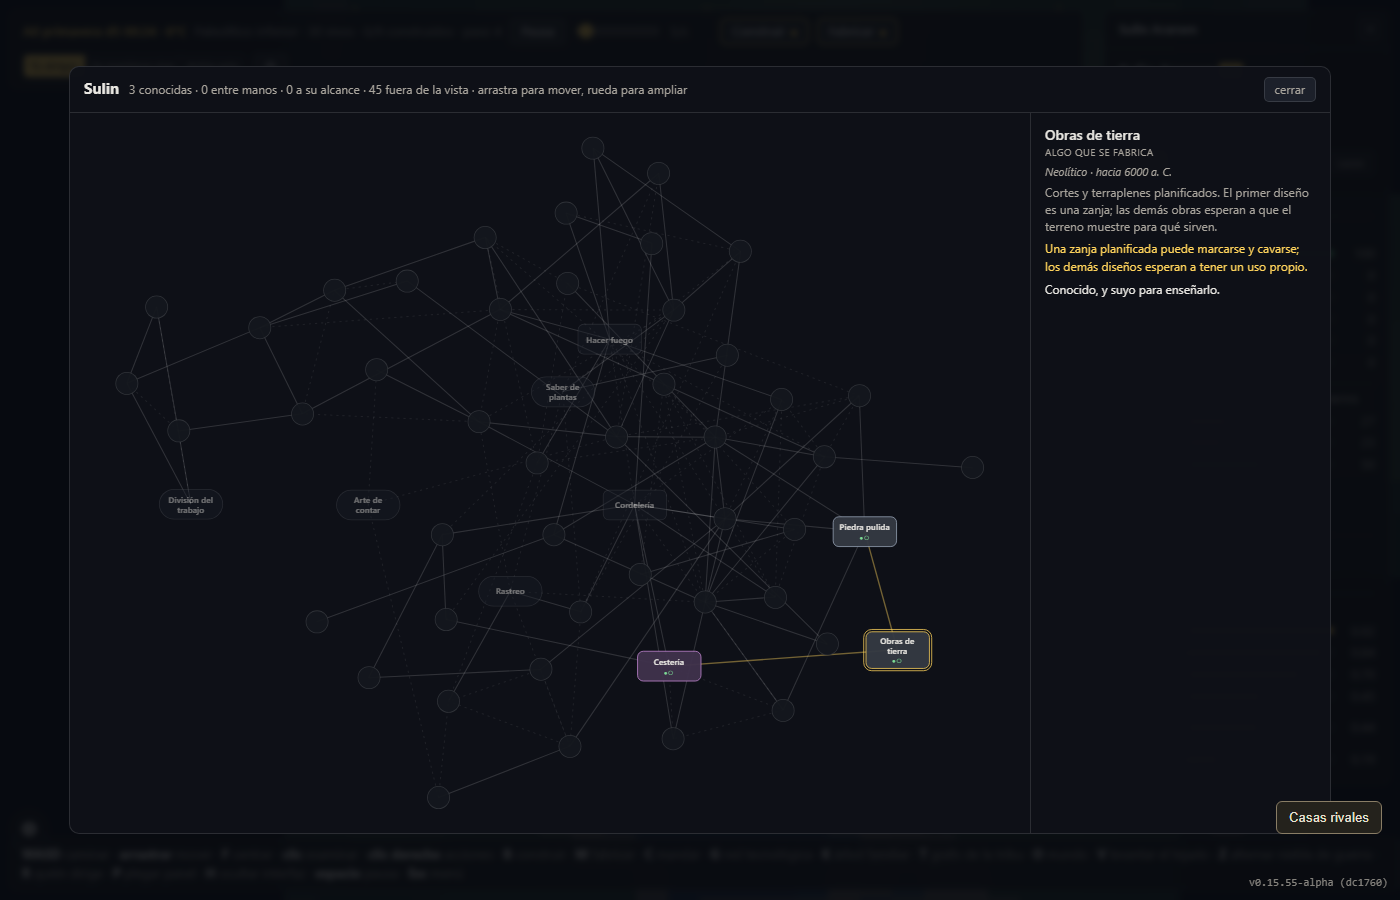
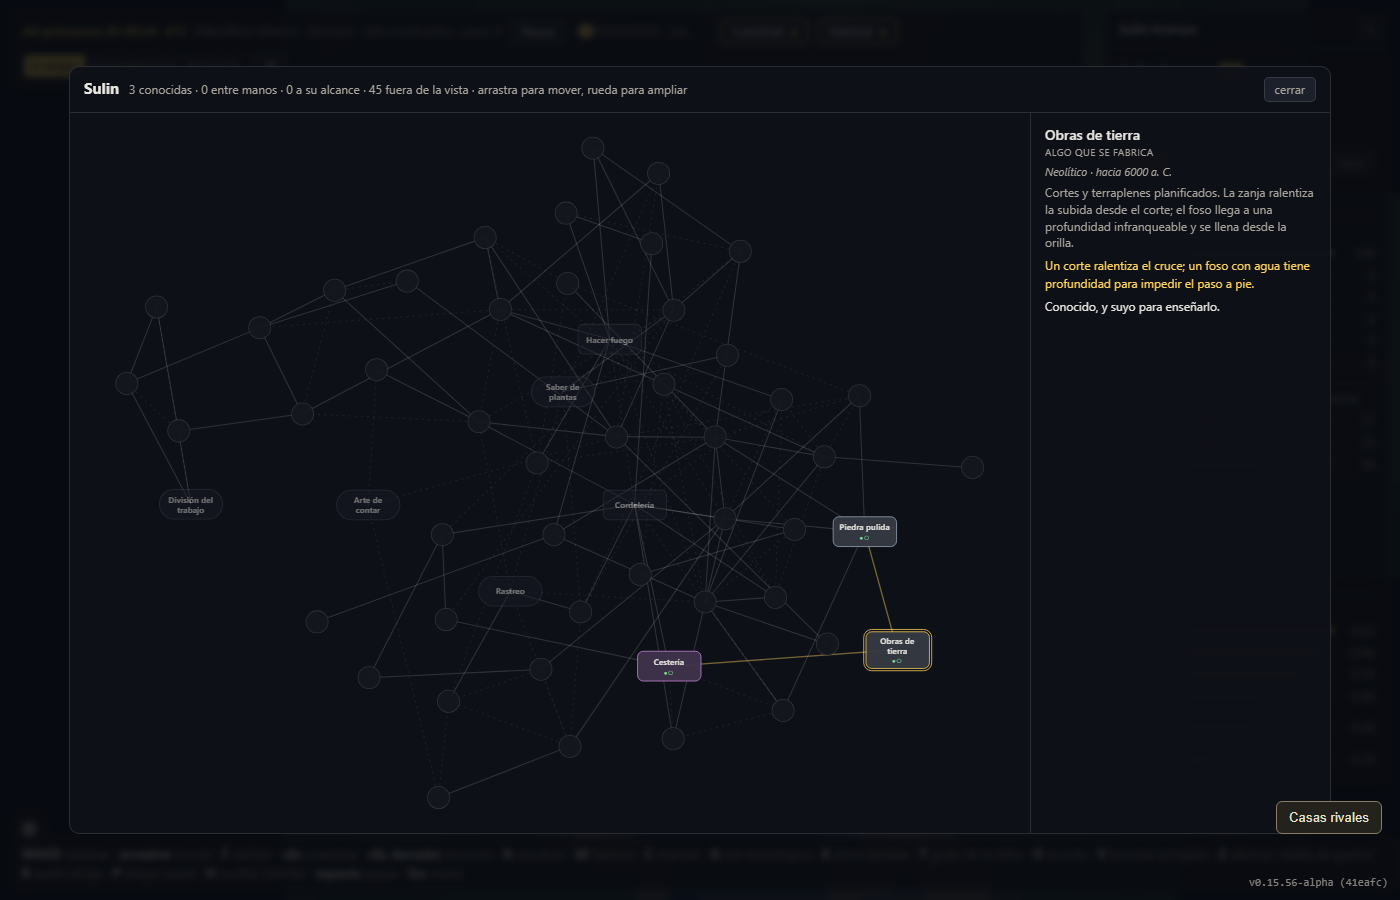
m15: gate water moats by earthworks

Changed region(s): [[0.7371, 0.1867, 0.9521, 0.3422], [0.9521, 0.9644, 0.9829, 0.9956]]

diff --git a/src/sim/__tests__/earthworks-gate.test.ts b/src/sim/__tests__/earthworks-gate.test.ts
@@ -1,7 +1,20 @@
 import { describe, expect, it } from 'vitest';
 import { Simulation } from '../core/Simulation.ts';
 import { BUILDINGS } from '../entities/Building.ts';
+import { EARTH_UNIT } from '../core/Earth.ts';
+import { DEFAULT_CONFIG } from '../core/Config.ts';
+import { BIOME_ID, World } from '../core/World.ts';
+import { RNG } from '../core/RNG.ts';
 import { TECH, TECH_EFFECTS, TECHS } from '../knowledge/Tech.ts';
+
+function flatWorld(): World {
+  const world = new World({ ...DEFAULT_CONFIG.world, width: 64, height: 64 }, new RNG('earthwork-crossing'));
+  world.elevation.fill(0.5);
+  world.offset.fill(0);
+  world.walkable.fill(1);
+  world.biome.fill(BIOME_ID.grass);
+  return world;
+}
 
 function openDitchSpot(sim: Simulation): { x: number; y: number } {
   for (let y = 2; y < sim.world.height - 3; y++) {
@@ -24,6 +37,8 @@ describe('earthworks gate (M15 phase 26e)', () => {
     expect(TECHS).toContain('earthworks');
     expect(TECH.earthworks.requires).toEqual(expect.arrayContaining(['ground_stone', 'basketry']));
     expect(TECH_EFFECTS.earthworks.site).toContain('BUILDINGS.ditch');
+    expect(TECH_EFFECTS.earthworks.site).toContain('BUILDINGS.moat');
+    expect(TECH_EFFECTS.earthworks.site).toContain('World.pitDepth');
     expect(BUILDINGS.ditch?.requiresTech).toBe('earthworks');
     expect(BUILDINGS.ditch_ns?.requiresTech).toBe('earthworks');
   });
@@ -46,5 +61,29 @@ describe('earthworks gate (M15 phase 26e)', () => {
     expect(designs()).not.toContain('ditch_ns');
     expect(sim.lockedDesigns().map(def => def.id)).not.toContain('ditch');
     expect(sim.place('ditch', spot.x, spot.y, 0)).not.toBeNull();
+  });
+
+  it('gates the water moat, while its depth and a shallow ditch use the existing terrain readers', () => {
+    const sim = new Simulation({ seed: 'moat-gate' });
+    sim.knownTech.add('ground_stone');
+    sim.knownTech.add('basketry');
+    expect(BUILDINGS.moat?.requiresTech).toBe('earthworks');
+    expect(sim.availableDesigns().map(def => def.id)).not.toContain('moat');
+    expect(sim.lockedDesigns().map(def => def.id)).toContain('moat');
+    expect(sim.place('moat', 32, 32, 0)).toBeNull();
+    sim.knownTech.add('earthworks');
+    expect(sim.availableDesigns().map(def => def.id)).toContain('moat');
+
+    const world = flatWorld();
+    const x = 32, y = 32;
+    world.dig(x, y, 16 * EARTH_UNIT);
+    expect(world.depthDug(x, y)).toBeGreaterThan(world.pitDepth);
+    expect(world.isWalkable(x, y)).toBe(false);
+
+    const ditch = flatWorld();
+    ditch.dig(x, y, 6 * EARTH_UNIT);
+    expect(ditch.depthDug(x, y)).toBeLessThan(ditch.pitDepth);
+    expect(ditch.isWalkable(x, y)).toBe(true);
+    expect(ditch.stepFactor(x + 0.5, y + 0.5, x - 0.5, y + 0.5)).toBeLessThan(1);
   });
 });

diff --git a/src/i18n/es/tech.ts b/src/i18n/es/tech.ts
@@ -1,11 +1,11 @@
 /** Spanish for tech. Keys are the English templates; see `i18n.ts`. */
 export const ES_TECH: Record<string, string> = {
   'Earthworks': 'Obras de tierra',
-  'Planned cuts and banks of earth. The first design is a ditch; other works wait for the ground to show what they are for.': 'Cortes y terraplenes planificados. El primer diseño es una zanja; las demás obras esperan a que el terreno muestre para qué sirven.',
+  'Planned cuts and banks of earth. A ditch slows the climb out of its cut; a water moat reaches below walking depth and fills from the shore.': 'Cortes y terraplenes planificados. La zanja ralentiza la subida desde el corte; el foso llega a una profundidad infranqueable y se llena desde la orilla.',
   'cut a line through the ground and found the earth itself could be shaped into a boundary': 'abrió una línea en el terreno y vio que la propia tierra podía formar un límite',
   'heaped earth into a bank and saw it change where people could walk': 'amontonó tierra en un terraplén y vio cómo cambiaba por dónde podía pasar la gente',
-  'A planned ditch can be marked and dug; later earth designs wait for their own readers.': 'Una zanja planificada puede marcarse y cavarse; los demás diseños esperan a tener un uso propio.',
-  'BUILDINGS.ditch.requiresTech; Simulation.availableDesigns and Simulation.place gate the ditch design': 'BUILDINGS.ditch.requiresTech; Simulation.availableDesigns y Simulation.place control el diseño de zanja',
+  'A cut slows the crossing; a water moat is deep enough to stop walking through.': 'Un corte ralentiza el cruce; un foso con agua tiene profundidad para impedir el paso a pie.',
+  'BUILDINGS.ditch and BUILDINGS.moat require earthworks; World.stepFactor reads excavated height, World.pitDepth and water fills read moat depth': 'BUILDINGS.ditch y BUILDINGS.moat requieren earthworks; World.stepFactor lee la altura excavada, World.pitDepth y el llenado de agua leen la profundidad del foso',
   'Irrigation': 'Riego',
   'Terracing': 'Abancalado',
   'about 6000 BC': 'hacia 6000 a. C.',

diff --git a/src/sim/entities/Building.ts b/src/sim/entities/Building.ts
@@ -777,8 +777,8 @@ export const BUILDINGS: Record<string, BuildingDef> = {
 // `Object.values(BUILDINGS)`, which the planner and the menu iterate. No
 // materials and no technology: a hole in the ground is older than any entry in
 // the tree, and what limits it is the digger's tool (`digTool`) and the hours.
-// Pits stay open as ordinary holes; designed ditches open with earthworks,
-// while channels and terraces wait on their field readers (M15 phase 26e).
+// Pits stay open as ordinary holes; planned ditches and water moats open with
+// earthworks, while channels and terraces wait on their field readers.
 // Each linear design has a turned copy (`_ns`) that is the same plan running
 // north-south: the build menu lists one design and R turns it.
 function earthworkDef(
@@ -809,7 +809,8 @@ const EARTHWORK_DEFS: BuildingDef[] = [
     'earthworks')),
   earthworkDef('moat', 'Moat', '\u{1F30A}', 6, 6,
     { layout: 'ring', kind: 'dig', depth: 16, water: 'ring' },
-    'A ring of ground dug too deep to cross, starting at the water. Where the water follows, it fills.'),
+    'A ring of ground dug too deep to cross, starting at the water. Where the water follows, it fills.',
+    'earthworks'),
   earthworkDef('mound', 'Mound', '\u{26F0}', 3, 3,
     { layout: 'cone', kind: 'pile', depth: 6 },
     'Earth heaped into a rise. Whoever stands on it sees further, and whoever climbs it goes slower.'),

diff --git a/src/sim/knowledge/Tech.ts b/src/sim/knowledge/Tech.ts
@@ -1483,8 +1483,8 @@ export const TECH: Record<Tech, TechDef> = {
         weight: 0.6, story: 'heaped earth into a bank and saw it change where people could walk' },
     ],
     description:
-      'Planned cuts and banks of earth. The first design is a ditch; other ' +
-      'works wait for the ground to show what they are for.',
+      'Planned cuts and banks of earth. A ditch slows the climb out of its ' +
+      'cut; a water moat reaches below walking depth and fills from the shore.',
   },
   terracing: {
     id: 'terracing', label: 'Terracing', domain: 'plants', web: 'field',
@@ -2943,8 +2943,8 @@ export const TECH_EFFECTS: Record<Tech, TechEffect> = {
     site: 'BUILDINGS.canal requires irrigation; Simulation.growCrops reads a completed canal carrying freshwater',
   },
   earthworks: {
-    summary: 'A planned ditch can be marked and dug; later earth designs wait for their own readers.',
-    site: 'BUILDINGS.ditch.requiresTech; Simulation.availableDesigns and Simulation.place gate the ditch design',
+    summary: 'A cut slows the crossing; a water moat is deep enough to stop walking through.',
+    site: 'BUILDINGS.ditch and BUILDINGS.moat require earthworks; World.stepFactor reads excavated height, World.pitDepth and water fills read moat depth',
   },
   terracing: {
     summary: 'Level a hillside field with a cut and fill that carries topsoil downhill.',

diff --git a/e2e/phase26e-irrigation.spec.ts b/e2e/phase26e-irrigation.spec.ts
@@ -57,6 +57,19 @@ test('Earthworks node describes the first ditch design in Spanish', async ({ pag
   await expect(node).toHaveCount(1);
   await node.hover();
   await expect(page.locator('.techweb-title')).toHaveText('Obras de tierra');
-  await expect(page.locator('.techweb-detail')).toContainText('El primer diseño es una zanja');
+  await expect(page.locator('.techweb-detail')).toContainText('el foso llega a una profundidad infranqueable');
   await page.screenshot({ path: shots + '/01-obras-de-tierra-red-principal.png' });
+});
+
+test('the locked moat names its earthworks gate in the Spanish build bar', async ({ page }) => {
+  const shots = 'artifacts/screenshots/m15-phase26e-moat-2026-10-11';
+  mkdirSync(shots, { recursive: true });
+  await page.setViewportSize({ width: 1400, height: 900 });
+  await page.goto('/?seed=m15-phase26e-moat&skipIntro=1&lang=es');
+  await expect(page.locator('.hud-clock')).not.toBeEmpty({ timeout: 30_000 });
+  await page.keyboard.press('b');
+
+  const locked = page.locator('.hud-buildbar-locked').filter({ hasText: 'Foso (requiere Obras de tierra)' });
+  await expect(locked).toBeVisible();
+  await page.screenshot({ path: shots + '/01-foso-bloqueado-por-obras-de-tierra.png' });
 });

diff --git a/e2e/earthworks.spec.ts b/e2e/earthworks.spec.ts
@@ -20,6 +20,8 @@ test('an earthwork is previewed, refused with a reason, turned, placed and dug',
   // Open ground a few tiles from the player, found by the sim's own rule.
   const spot = await page.evaluate(() => {
     const d = (window as any).__dynasty, p = d.sim.player;
+    // This spec measures placement on dry ground; the design is gated in 26e.
+    p.knownTech.add('earthworks'); d.sim.knownTech.add('earthworks');
     for (let r = 4; r < 40; r++) for (let a = 0; a < 32; a++) {
       const x = Math.round(p.x + Math.cos(a * Math.PI / 16) * r), y = Math.round(p.y + Math.sin(a * Math.PI / 16) * r);
       let ok = true;

diff --git a/docs/m15_plan.md b/docs/m15_plan.md
@@ -2498,13 +2498,16 @@ se ve más`.
 pala a 3× con `carpentry`) y los verbos y el relieve visible de 26c. Las recetas,
 el equipo llevado, el sprite al cavar y los motivos de rechazo están probados.
 También está `regions-stay-true` de 26f, aplicado a toda la matriz. La conservación de
-fertilidad y la extracción de barro de 26a también están (2026-10-04). El agua sigue a la zanja (26d) y el check `water-follows-the-trench` también (2026-10-04). Los diseños de 26c (hoyo, zanja, foso, montículo,
-terraplén, canal y bancal; `Building.earth`, progreso por casilla, razones, menú
-con vista previa y rechazo) están hechos (2026-10-04); también el reubicado de lo
-que queda bajo el agua. Faltan la puerta `earthworks`
-y los nodos de sus diseños de 26b, la persuasión de la banda como proponente, el
-26e. El silo que se cava está hecho y medido aparte (2026-10-04; coste −3,7 puntos a 20 semillas, ver `changelog.md`). El escenario `diggers` con `earthworks-are-dug` de 26f
-está hecho (2026-10-04). `pitDepth`, que ya alcanza el diseño del hoyo, está probado en `World`.
+fertilidad y la extracción de barro de 26a también están (2026-10-04). El agua
+sigue a la zanja (26d) y el check `water-follows-the-trench` también
+(2026-10-04). Los diseños de 26c (hoyo, zanja, foso, montículo, terraplén,
+canal y bancal; `Building.earth`, progreso por casilla, razones y vista previa)
+están hechos (2026-10-04); también el reubicado de lo que queda bajo el agua.
+`earthworks` ya abre `ditch` y `moat`; faltan gates/lectores de los demás
+diseños, la persuasión de la banda y las mediciones de 26e. El silo está hecho y
+medido aparte (2026-10-04; coste −3,7 puntos a 20 semillas, ver `changelog.md`).
+El escenario `diggers` con `earthworks-are-dug` de 26f está hecho (2026-10-04).
+`pitDepth`, que leen el hoyo y el foso, está probado en `World`.
 Ver `changelog.md`.
 
 **Objetivo.** El terreno se puede cambiar: hoyos, silos, zanjas, fosos con
@@ -2533,17 +2536,17 @@ sin fabricar un segundo objeto idéntico. El pico se fabrica con dos huesos y
 la pala con una madera; los multiplicadores se leen por `techPower` y se elige
 la mejor potencia efectiva, incluidos prototipos y refinamientos. Tener la
 herramienta sin saber usarla da un motivo propio en el menú, al dar la orden y
-al interrumpirse. La puerta y los nodos de obras esperan a sus lectores: no se
-declaran tecnologías que todavía no puedan hacer nada.
+al interrumpirse. **Avance 2026-10-11:** `earthworks` abre `ditch` y `moat`;
+los demás diseños esperan a tener lectores propios antes de recibir gates.
 
 | herramienta o nodo | edad | requiere | efecto |
 |---|---|---|---|
 | palo de cavar (`digging_stick`) | Paleolítico inferior | — (palos 1) | cavar a 1× |
 | pico de asta (`antler_pick`) | Mesolítico | `bone_working` (hueso 2) | 2× |
 | pala de madera (`spade`) | Neolítico | `carpentry` (madera 1) | 3× |
-| `earthworks` (puerta Tierra, en la red principal) | Neolítico | `ground_stone`, `basketry` | abre `ditch`; otros diseños se conectan al llegar sus lectores |
+| `earthworks` (puerta Tierra, en la red principal) | Neolítico | `ground_stone`, `basketry` | abre `ditch` y `moat`; otros diseños esperan a sus lectores |
 | `ditch` | Neolítico | `earthworks` | diseño excavable de 26c; mueve suelo y modifica el relieve |
-| `moat` | Neolítico | `earthworks` (además, requiere un borde de agua) | diseño de foso de 26c; gate aún pendiente |
+| `moat` | Neolítico | `earthworks` (además, requiere un borde de agua) | diseño de foso de 26c; ring hondo e inundable |
 | `terracing` | Bronce | `irrigation` | bancal de 26e, lector de topsoil; diseño ya implementado |
 | `irrigation` (sub-red Campo) | Neolítico final (Mesopotamia) | `earthworks`, `farming` | abre el canal que riega (26e) |
 
@@ -2579,7 +2582,9 @@ lleva agua a beber junto al campamento: un valor que la banda descubre sola.
 
 - **Zanja:** cruzarla cuesta (la pendiente de 25b), y si es honda no se
   cruza. Las incursiones la rodean o buscan el paso.
-- **Foso:** zanja con agua; no se camina.
+- **Foso:** `moat` excava 16 unidades de tierra por casilla, más que el umbral
+  `pitDepth`; queda intransitable y 26d deja entrar agua donde el ring toca la
+  orilla. La puerta `earthworks` también lo habilita (avance 2026-10-11).
 - **Montón y terraplén:** más altura, y por tanto más vista (25c), y quien sube
   a atacar va más lento (25b). Es la defensa que la fase 38 convierte en
   muralla.
@@ -2591,13 +2596,15 @@ lleva agua a beber junto al campamento: un valor que la banda descubre sola.
   requiere `farming` y `earthworks`, y abre el canal; su factor no está calibrado. `terracing`
   requiere `irrigation` y abre el bancal: el corte y relleno existente lleva la
   capa fértil de la parte alta a la baja. No hay un modelo separado de erosión
-  de ladera. Siguen pendientes los nodos específicos del foso y otras obras,
-  la persuasión de obras y la medición final de 26e.
+  de ladera. Sigue pendiente la persuasión de obras y la medición final de 26e.
 - **Puerta Tierra (avance 2026-10-11):** `earthworks` requiere `ground_stone` y
-  `basketry`; su primer lector es `ditch`, que permanece bloqueado hasta conocer
-  la puerta. La puerta está en la red principal mientras solo tenga un diseño
-  lector. El canal requiere también `earthworks` a través de `irrigation`; el
-  foso, montones y terraplenes siguen pendientes hasta conectar cada lector.
+  `basketry`; abre la zanja y el foso. La zanja de seis unidades queda bajo el
+  umbral de `pitDepth` y sigue caminable; `World.stepFactor` encarece salir del
+  corte mediante la lectura de elevación excavada de 25b. El foso de 16 unidades
+  rebasa `pitDepth` y el llenado de 26d lo conecta al agua de la orilla. La
+  puerta permanece en la red principal hasta que haya dos nodos de Tierra; el
+  canal la exige a través de `irrigation`. Los demás diseños esperan sus
+  propios lectores; el rodeo de incursiones y su coste defensivo siguen pendientes.
 - **Bancal:** un campo en pendiente que conserva la capa fértil al nivelar la
   ladera con corte y relleno; no modela erosión adicional por lluvia.
 

diff --git a/docs/bugs.md b/docs/bugs.md
@@ -518,12 +518,15 @@ arranque vengan ya cavados, o `git revert` del commit del silo.
 - **Foso, canal, bancal y terraplén tienen lectores parciales.** Todos cambian
   el relieve, y lo leen la pendiente (25b), la vista (25c) y el llenado (26d);
   el foso solo se llena donde el terreno es bajo, y una playa natural sube unos
-  4 m por casilla. Pero el coste de cruzar una zanja *honda*, las incursiones que la
-  rodean, el riego del canal (`irrigation`) y la fertilidad del bancal son 26e.
-  Avance 2026-10-11: `earthworks` ahora abre el diseño `ditch`, y `irrigation`
-  también lo requiere. Faltan el coste de cruce defensivo, la reacción de las
-  incursiones, y puertas con lectores propios para foso, terraplén y las demás
-  obras. Los agujeros simples siguen abiertos a todos.
+  4 m por casilla. El movimiento común encarece la subida desde una zanja poco
+  honda (25b); el foso supera `pitDepth` y no se cruza a pie. Sigue pendiente
+  que las incursiones rodeen las obras y su medición táctica, además del riego
+  del canal (`irrigation`) y la fertilidad del bancal.
+  Avance 2026-10-11: `earthworks` abre `ditch` y `moat`; el escalón de salida de
+  la zanja ya usa el coste de pendiente 25b y el foso rebasa `pitDepth`, por lo
+  que no se puede cruzar, y se llena desde la orilla (26d). Faltan el desvío de
+  las incursiones, una medición de coste defensivo y gates para montones,
+  terraplenes y otras obras. Los agujeros simples siguen abiertos a todos.
 - **Una casilla de plan que se hace honda bajo los pies de otro peón.** El que
   cava no está nunca en la casilla que se hará pozo (trabaja desde el borde),
   pero otro compañero de la cuadrilla sí puede estar en ella cuando alguien
@@ -4858,7 +4861,7 @@ Perfil en vez de Equipo: se corrigió el test y su repetición pasa.
 El primer lector de la fase 26e aplica un factor 1,25 al crecimiento diario de
 campos próximos a canales con agua dulce. Es un mecanismo funcional, no una
 medición económica: no se ejecutaron cohortes y no se afirma que mejore la
-supervivencia. Los nodos `irrigation`/`terracing` y sus puertas funcionales se
-entregaron después; siguen pendientes la puerta genérica `earthworks`, sus
-nodos de zanja/foso y persuasión. El factor 1,25 y la economía agrícola
-continúan sin calibrar para el cierre de 26e/M15.
+supervivencia. Los nodos `irrigation`/`terracing`, el gate `earthworks` y los
+diseños `ditch`/`moat` están conectados con sus lectores. Siguen pendientes
+otros gates de obras, persuasión, desvío/coste defensivo y calibración agrícola.
+El factor 1,25 y la economía siguen sin calibrar para el cierre de 26e/M15.

diff --git a/docs/changelog.md b/docs/changelog.md
@@ -14906,3 +14906,18 @@ la medición económica; la fase 26 permanece abierta.
 El `sim:check` único de `band` conserva los dos fallos de baseline conocidos:
 `cravings-steer-the-diet` y `perf-budget` (531 pasos/s frente al piso de 1.678).
 No se atribuyen a esta puerta.
+
+## 2026-10-11 — Fase 26e, foso y lectura de profundidad
+
+El gate `earthworks` abre también `moat`. Su ring excava 16 unidades de tierra,
+supera `World.pitDepth` y queda intransitable; 26d lo llena donde toca agua. La
+zanja existente excava 6 unidades, sigue transitable y la subida desde su corte
+usa el coste de pendiente de 25b a partir de la elevación excavada. Un control
+negativo del gate falló antes del cambio; tests focalizados cubren el gate,
+profundidad y coste. Typecheck limpio, 73/73 pruebas focalizadas y e2e 4/4. La
+UI explica el gate en español; captura:
+`artifacts/screenshots/m15-phase26e-moat-2026-10-11/`. Coste defensivo y reacción
+de incursiones siguen pendientes; no se corrieron cohortes ni calibración.
+
+El `sim:check` único de `band` repite los fallos conocidos de dieta y
+`perf-budget` (478 pasos/s frente al piso de 1.678); no se atribuyen a este gate.
